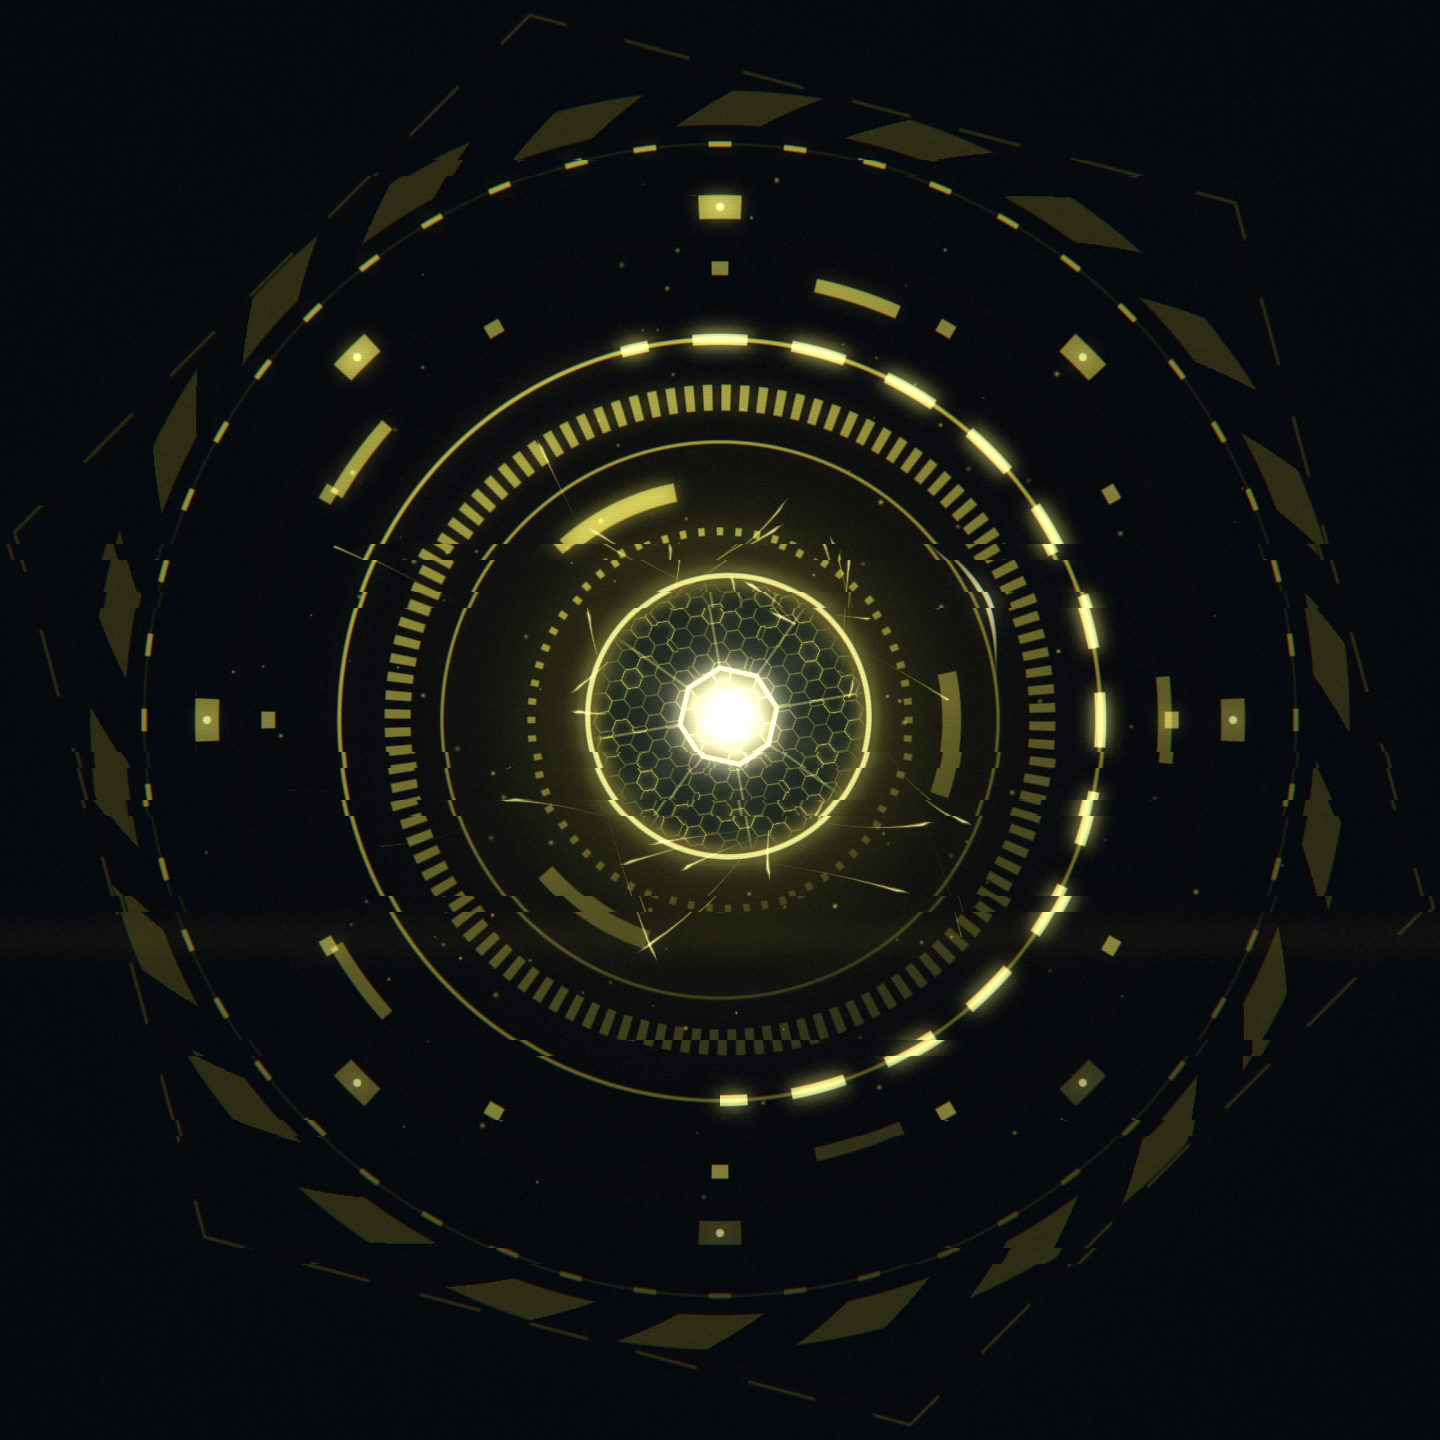
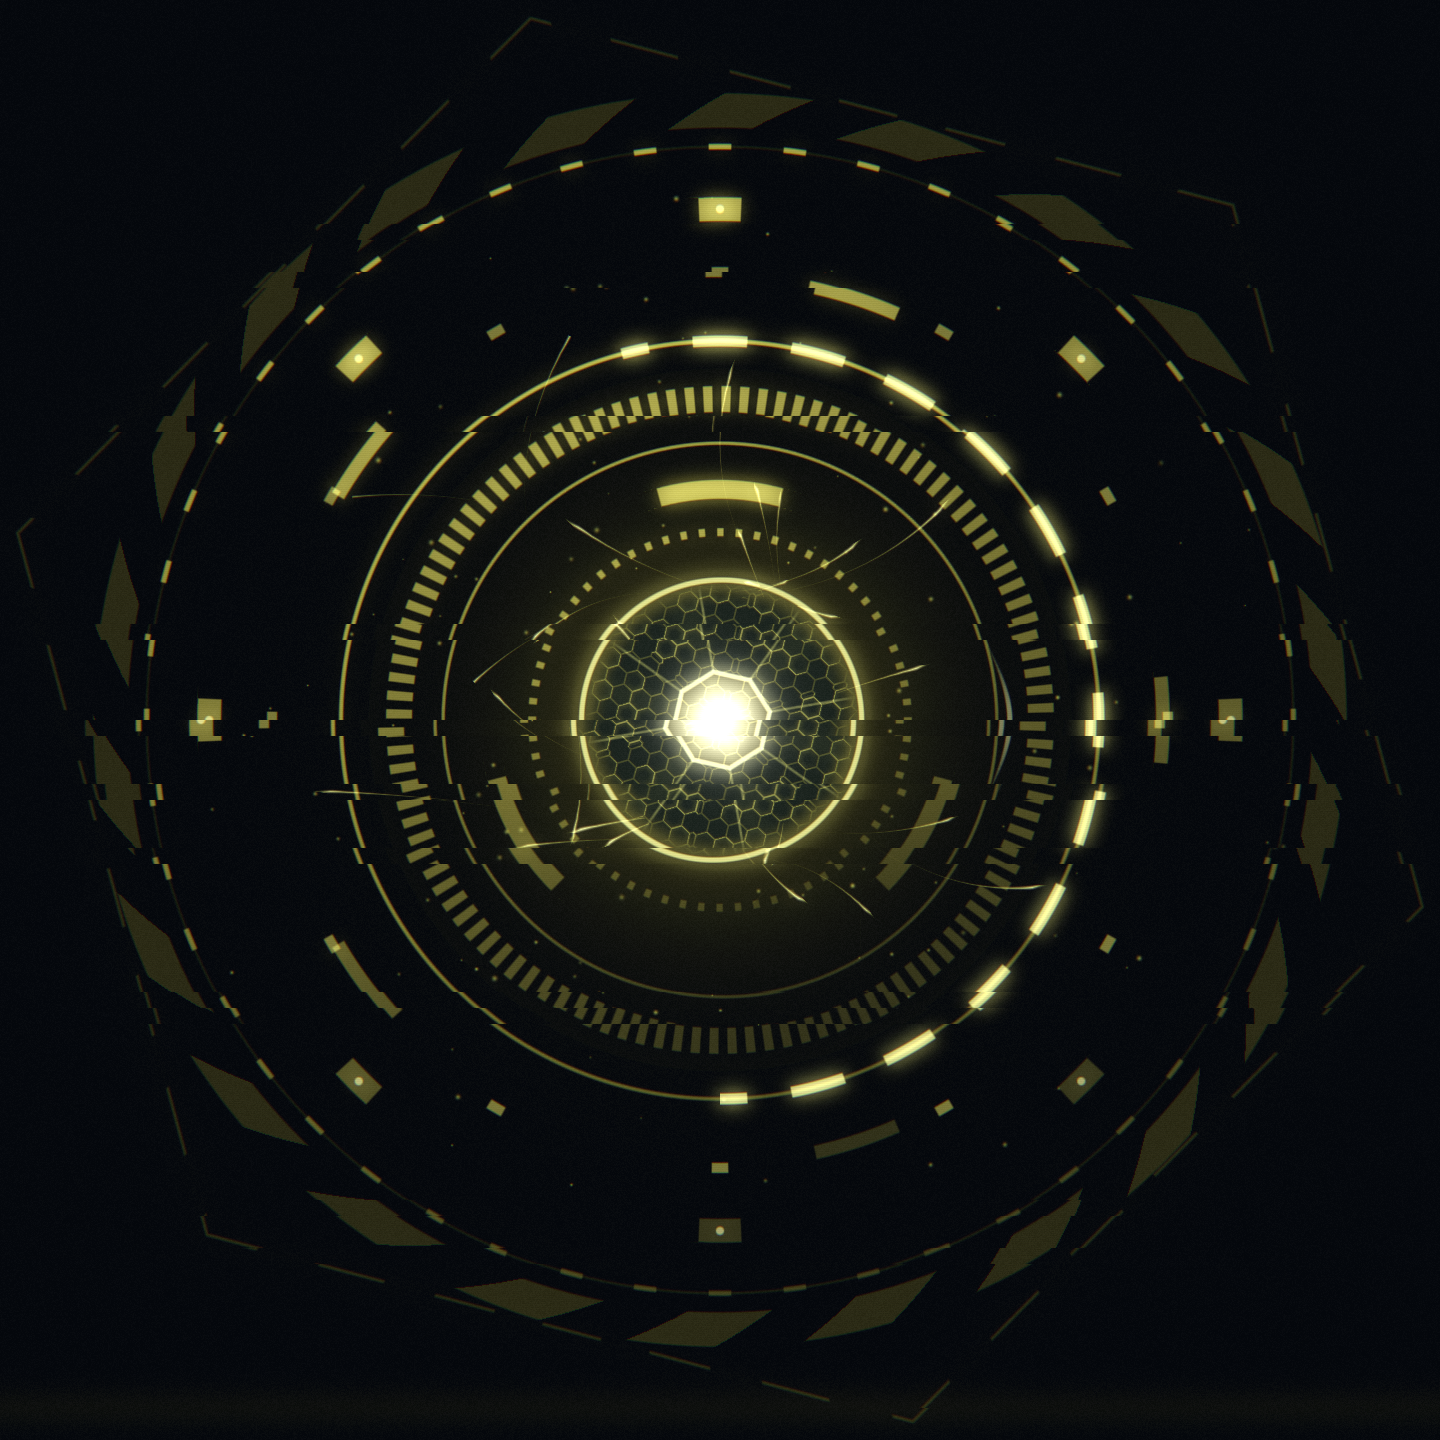
Derived records: deletion follows them, retrieval does not double-count them
Groundwork for translating documents at ingest, which the translation research
measured as the fix for the document tier's cross-language hole — English
questions against a German lease go from 1 of 4 answered to 4 of 4, with no
added latency on the hot path. Both halves of this commit are things that must
exist BEFORE that ships, and both are correctness bugs in their own right.

`MemoryRecord.origin_id` names the record a record was derived from.

Deletion. `forget()` has never known about derived records, because until now
nothing derived any — so a translated copy would have survived the passage it
came from, and a document the user deleted would have kept answering questions
through its translation. The user cannot discover that: they deleted the thing
they knew about. Deletion is now transitive, because a derived record can have
derivatives of its own, and one surviving link is enough to keep deleted text
searchable. Non-negotiable #7.

Retrieval. The tiered brain refuses to answer when the top two passages score
alike, because picking one of two near-identical rivals is how retrieval produces
confident nonsense. A translation is not a rival — it is the same passage in
another language, scoring almost identically by construction — so it would trip
that rule on essentially every hit. Measured by the research: 2 of 12 answerable
questions became unanswerable, two of which the untranslated index had answered.
[…]

diff --git a/services/gateway/src/ars_gateway/ui/entity/ars-entity.js b/services/gateway/src/ars_gateway/ui/entity/ars-entity.js
@@ -107,7 +107,11 @@ const mixc = (a, b, t) => [lerp(a[0], b[0], t), lerp(a[1], b[1], t), lerp(a[2], 
  *  back without touching the tokens. */
 function saturate(c, k) {
   const l = c[0] * 0.2126 + c[1] * 0.7152 + c[2] * 0.0722;
-  return [clamp(l + (c[0] - l) * k, 0, 1), clamp(l + (c[1] - l) * k, 0, 1), clamp(l + (c[2] - l) * k, 0, 1)];
+  const o = [l + (c[0] - l) * k, l + (c[1] - l) * k, l + (c[2] - l) * k];
+  /* Renormalise instead of clamping: clipping the red channel of the amber
+     tier turned it yellow-green, which is the wrong signal entirely. */
+  const m = Math.max(o[0], o[1], o[2], 1);
+  return [clamp(o[0] / m, 0, 1), clamp(o[1] / m, 0, 1), clamp(o[2] / m, 0, 1)];
 }
 
 /* --- state targets ------------------------------------------------------
@@ -274,7 +278,7 @@ void main(){
     float g = uRingGain[i] * mask * am;
     /* the heavy rings pick up a machined top-light so they read as metal */
     float shade = 0.72 + 0.45 * cos(a0 - 1.9);
-    col += mix(uColA, uColB, 0.30) * g * shade * 0.78;
+    col += mix(uColA, uColB, 0.30) * g * shade * 0.85;
   }
 
   /* bolts on the outer bezel — small, deliberate, mechanical */
@@ -816,7 +820,7 @@ class Model {
     else if (this.state === 'acting') a = tierCol ? mixc(tierCol, st, 0.72) : st;
     else if (tierCol) a = mixc(tierCol, st, 0.22);
     else a = st;
-    a = saturate(a, 1.35);
+    a = saturate(a, 1.28);
     /* The highlight has to stay the SAME hue, only brighter. Mixing toward
        white (or toward an ice-white rim token) is what turns a violet
        "local model" turn into generic sci-fi grey — normalise the body colour

diff --git a/services/gateway/src/ars_gateway/ui/entity/hud.js b/services/gateway/src/ars_gateway/ui/entity/hud.js
@@ -285,9 +285,14 @@ const HUD_CSS = `
   border-radius: var(--ars-radius-xs);
   --ars-tier-hue: var(--ars-ice);
 }
-.ars-hud-tier--documents   { --ars-tier-hue: var(--ars-teal); }
-.ars-hud-tier--local-model { --ars-tier-hue: var(--ars-violet); }
-.ars-hud-tier--cloud-model { --ars-tier-hue: var(--ars-amber); }
+/* Two classes deep, deliberately: the base rule above is .hud-tier.ars-hud-tier
+   (0,2,0), so a single-class modifier would lose the cascade and every tier
+   would render in the same ice hue — which silently removes the one signal
+   this component exists to carry. */
+.ars-hud-tier.ars-hud-tier--recall      { --ars-tier-hue: var(--ars-ice); }
+.ars-hud-tier.ars-hud-tier--documents   { --ars-tier-hue: var(--ars-teal); }
+.ars-hud-tier.ars-hud-tier--local-model { --ars-tier-hue: var(--ars-violet); }
+.ars-hud-tier.ars-hud-tier--cloud-model { --ars-tier-hue: var(--ars-amber); }
 .ars-hud-tier__rail {
   width: 3px; align-self: stretch; flex: none;
   background: var(--ars-tier-hue);
@@ -316,8 +321,8 @@ const HUD_CSS = `
   color: var(--ars-text-on-accent);
   background: var(--ars-tier-hue);
 }
-.ars-hud-tier--cloud-model { border-color: color-mix(in srgb, var(--ars-amber) 55%, transparent); }
-.ars-hud-tier--cloud-model .ars-hud-tier__chip { box-shadow: var(--ars-glow-warn); }
+.ars-hud-tier.ars-hud-tier--cloud-model { border-color: color-mix(in srgb, var(--ars-amber) 55%, transparent); }
+.ars-hud-tier.ars-hud-tier--cloud-model .ars-hud-tier__chip { box-shadow: var(--ars-glow-warn); }
 `;
 
 let injected = false;

diff --git a/tests/unit/memory/test_forget_takes_derived_records.py b/tests/unit/memory/test_forget_takes_derived_records.py
@@ -1,0 +1,89 @@
+"""Deleting a record deletes what was derived from it.
+
+A translated copy of a passage exists only because the passage does. If `forget()` leaves
+it behind, a document the user deleted keeps answering questions through its translation —
+and the user has no way to discover that, because they deleted the thing they knew about.
+Non-negotiable #7 says deletion must actually delete, and "actually" has to include the
+copies the system made on its own initiative.
+"""
+
+from __future__ import annotations
+
+from pathlib import Path
+
+import pytest
+from ars_memory import MemoryConfig, SqliteMemoryStore
+from ars_protocol import (
+    Language, MemoryKind, MemoryRecord, Provenance, Sensitivity, SourceKind, TrustLevel,
+)
+
+GERMAN = "Die Miete beträgt monatlich 1.200 Euro und ist zum Dritten fällig."
+ENGLISH = "The rent is 1,200 euro per month and is due on the third."
+ROMANIAN = "Chiria este de 1.200 de euro pe lună și se plătește pe data de trei."
+
+
+def _record(text: str, language: Language, origin_id: str | None = None) -> MemoryRecord:
+    return MemoryRecord(
+        kind=MemoryKind.DOCUMENT,
+        text=text,
+        language=language,
+        sensitivity=Sensitivity.PERSONAL,
+        provenance=Provenance(
+            source=SourceKind.LOCAL_FILE, trust=TrustLevel.USER_DATA, label="Mietvertrag.pdf"
+        ),
+        origin_id=origin_id,
+    )
+
+
+@pytest.fixture
+def config(tmp_path: Path) -> MemoryConfig:
+    return MemoryConfig(data_dir=tmp_path, embedding_backend="hash")
+
+
+@pytest.mark.asyncio
+async def test_forgetting_a_passage_forgets_its_translations(config: MemoryConfig) -> None:
+    store = await SqliteMemoryStore.open(config)
+    try:
+        source = await store.remember(_record(GERMAN, Language.DE))
+        await store.remember(_record(ENGLISH, Language.EN, origin_id=source.id))
+        await store.remember(_record(ROMANIAN, Language.RO, origin_id=source.id))
+
+        removed = await store.forget(record_id=source.id)
+
+        assert removed == 3, "the translations survived the passage they came from"
+        assert await store.recall("Miete") == ()
+        assert await store.recall("rent") == ()
+        assert await store.recall("chiria") == ()
+    finally:
+        await store.close()
+
+
+@pytest.mark.asyncio
+async def test_derivation_is_followed_all_the_way_down(config: MemoryConfig) -> None:
+    """A derived record can have derivatives of its own — a summary of a translation. One
+    surviving link is enough to keep deleted text searchable."""
+    store = await SqliteMemoryStore.open(config)
+    try:
+        source = await store.remember(_record(GERMAN, Language.DE))
+        english = await store.remember(_record(ENGLISH, Language.EN, origin_id=source.id))
+        await store.remember(_record("Rent: 1,200 EUR monthly.", Language.EN,
+                                     origin_id=english.id))
+
+        assert await store.forget(record_id=source.id) == 3
+        assert await store.recall("Rent") == ()
+    finally:
+        await store.close()
+
+
+@pytest.mark.asyncio
+async def test_an_unrelated_record_is_left_alone(config: MemoryConfig) -> None:
+    store = await SqliteMemoryStore.open(config)
+    try:
+        source = await store.remember(_record(GERMAN, Language.DE))
+        await store.remember(_record(ENGLISH, Language.EN, origin_id=source.id))
+        keeper = await store.remember(_record("Der Stellplatz kostet 80 Euro.", Language.DE))
+
+        assert await store.forget(record_id=source.id) == 2
+        assert await store.exists(keeper.id)
+    finally:
+        await store.close()

diff --git a/services/memory/src/ars_memory/store.py b/services/memory/src/ars_memory/store.py
@@ -77,7 +77,7 @@ logger = logging.getLogger("ars_memory.store")
 _RECORD_COLUMNS = (
     "rowid, id, kind, text, language, sensitivity, provenance_source, provenance_trust, "
     "provenance_uri, provenance_fetched_at_ms, provenance_label, created_at_ms, "
-    "valid_until_ms, superseded_by"
+    "valid_until_ms, superseded_by, origin_id"
 )
 
 
@@ -326,8 +326,8 @@ class SqliteMemoryStore(MemoryStore):
                 id, kind, text, language, sensitivity,
                 provenance_source, provenance_trust, provenance_uri,
                 provenance_fetched_at_ms, provenance_label,
-                created_at_ms, valid_until_ms, superseded_by
-            ) VALUES (?, ?, ?, ?, ?, ?, ?, ?, ?, ?, ?, ?, ?)
+                created_at_ms, valid_until_ms, superseded_by, origin_id
+            ) VALUES (?, ?, ?, ?, ?, ?, ?, ?, ?, ?, ?, ?, ?, ?)
             """,
             (
                 record.id,
@@ -343,6 +343,7 @@ class SqliteMemoryStore(MemoryStore):
                 record.created_at_ms,
                 record.valid_until_ms,
                 record.superseded_by,
+                record.origin_id,
             ),
         )
         rowid = cursor.lastrowid
@@ -451,6 +452,28 @@ class SqliteMemoryStore(MemoryStore):
                     )
                 if not rows:
                     return 0
+
+                # Anything derived from what is being forgotten goes with it. A translated
+                # copy of a passage exists only because the passage does, so leaving it
+                # behind means a document the user deleted keeps answering questions
+                # through its translation — non-negotiable #7 failing in the one way the
+                # user would never think to check. Transitive, because a derived record
+                # can itself have derivatives.
+                rows = list(rows)
+                seen = {row["id"] for row in rows}
+                frontier = list(seen)
+                while frontier:
+                    placeholders = ",".join("?" * len(frontier))
+                    derived = await self._fetch_rows_where(
+                        f"origin_id IN ({placeholders})", tuple(frontier)
+                    )
+                    frontier = []
+                    for row in derived:
+                        if row["id"] in seen:
+                            continue
+                        seen.add(row["id"])
+                        rows.append(row)
+                        frontier.append(row["id"])
 
                 rowids = [row["rowid"] for row in rows]
                 ids = [row["id"] for row in rows]
@@ -743,6 +766,7 @@ class SqliteMemoryStore(MemoryStore):
             created_at_ms=row["created_at_ms"],
             valid_until_ms=row["valid_until_ms"],
             superseded_by=row["superseded_by"],
+            origin_id=row["origin_id"],
         )
 
 

diff --git a/tests/unit/gateway/test_tier_ladder.py b/tests/unit/gateway/test_tier_ladder.py
@@ -227,3 +227,37 @@ async def test_a_failed_turn_is_answered_but_never_learned() -> None:
     )
 
     assert memory.remembered == []
+
+
+# ----------------------------------------------------------------- derived passages
+
+@pytest.mark.asyncio
+async def test_a_passage_does_not_compete_with_its_own_translation() -> None:
+    """Translating documents at ingest is what makes a German lease answer an English
+    question. It also puts a near-identical twin of every passage in the index, and the
+    ambiguity rule — which exists to refuse when two DIFFERENT passages score alike —
+    would fire on every single hit. The twin is the same passage, not a rival."""
+    original = _memory(PASSAGE, MemoryKind.DOCUMENT)
+    translation = _memory(PASSAGE, MemoryKind.DOCUMENT).model_copy(
+        update={"id": "mem_translation", "origin_id": original.id, "language": Language.EN}
+    )
+    brain = TieredBrain(memory=_FakeMemory([
+        Scored(rank=0.9, cosine=COSINE_ANSWERING_PASSAGE, record=original),
+        Scored(rank=0.9, cosine=COSINE_ANSWERING_PASSAGE - 0.0001, record=translation),
+    ]))
+
+    answer = await brain.try_cheap_tiers("Cât este chiria pe lună?", language=Language.RO)
+
+    assert answer is not None, "a passage was refused for being ambiguous with itself"
+    assert answer.tier is Tier.DOCUMENTS
+
+
+@pytest.mark.asyncio
+async def test_two_genuinely_different_passages_still_refuse() -> None:
+    """The rule must keep working for what it was written for."""
+    brain = TieredBrain(memory=_FakeMemory([
+        _document_hit(COSINE_ANSWERING_PASSAGE),
+        _document_hit(COSINE_ANSWERING_PASSAGE - 0.0001),
+    ]))
+
+    assert await brain.try_cheap_tiers("Cât este chiria pe lună?") is None

diff --git a/packages/protocol/src/ars_protocol/memory.py b/packages/protocol/src/ars_protocol/memory.py
@@ -51,6 +51,22 @@ class MemoryRecord(Model):
     """Memory is corrected by superseding, never by silent overwrite — the old value
     stays auditable so the user can see what it used to believe and why."""
 
+    origin_id: str | None = None
+    """The record this one was derived from, if it was derived from one.
+
+    A translated copy of a passage, a summary, an extracted table — anything that exists
+    only because another record does. Two consequences, and both are correctness rather
+    than bookkeeping:
+
+    Deletion. `forget()` removes what it is asked for; without this field a derived record
+    survives its source, so a document the user deleted keeps answering questions through
+    its translation. That is non-negotiable #7 failing quietly.
+
+    Retrieval. A passage and its translation are the same passage, so they must never be
+    treated as two independent hits — the tiered brain's ambiguity rule refuses to answer
+    when the top two results score alike, and a record competing with its own twin trips
+    it every time. Measured: 2 of 12 questions that were answerable became unanswerable."""
+
 
 class BehaviourDomain(StrEnum):
     STYLE = "style"                 # length, tone, formality

diff --git a/services/gateway/src/ars_gateway/brain.py b/services/gateway/src/ars_gateway/brain.py
@@ -282,7 +282,19 @@ class TieredBrain:
 
         scored.sort(key=lambda triple: triple[0], reverse=True)
         top_score, top_cosine, top = scored[0]
-        runner_up = scored[1][0] if len(scored) > 1 else 0.0
+
+        # The runner-up has to be a genuinely different passage. A translated copy is the
+        # same passage in another language: it scores almost identically by construction,
+        # so counting it as a rival trips the ambiguity rule below and turns an answerable
+        # question into a GPU turn. Measured on documents translated at ingest: 2 of 12
+        # answerable questions became unanswerable, two of which the untranslated index
+        # had answered.
+        def same_passage(other: MemoryRecord) -> bool:
+            ids = {top.id, top.origin_id} - {None}
+            return other.id in ids or (other.origin_id is not None and other.origin_id in ids)
+
+        rivals = [score for score, _cosine, record in scored[1:] if not same_passage(record)]
+        runner_up = rivals[0] if rivals else 0.0
 
         # ---- tier 0: this exact question has been answered before
         if (floor <= Tier.RECALL and top.kind is MemoryKind.FACT
